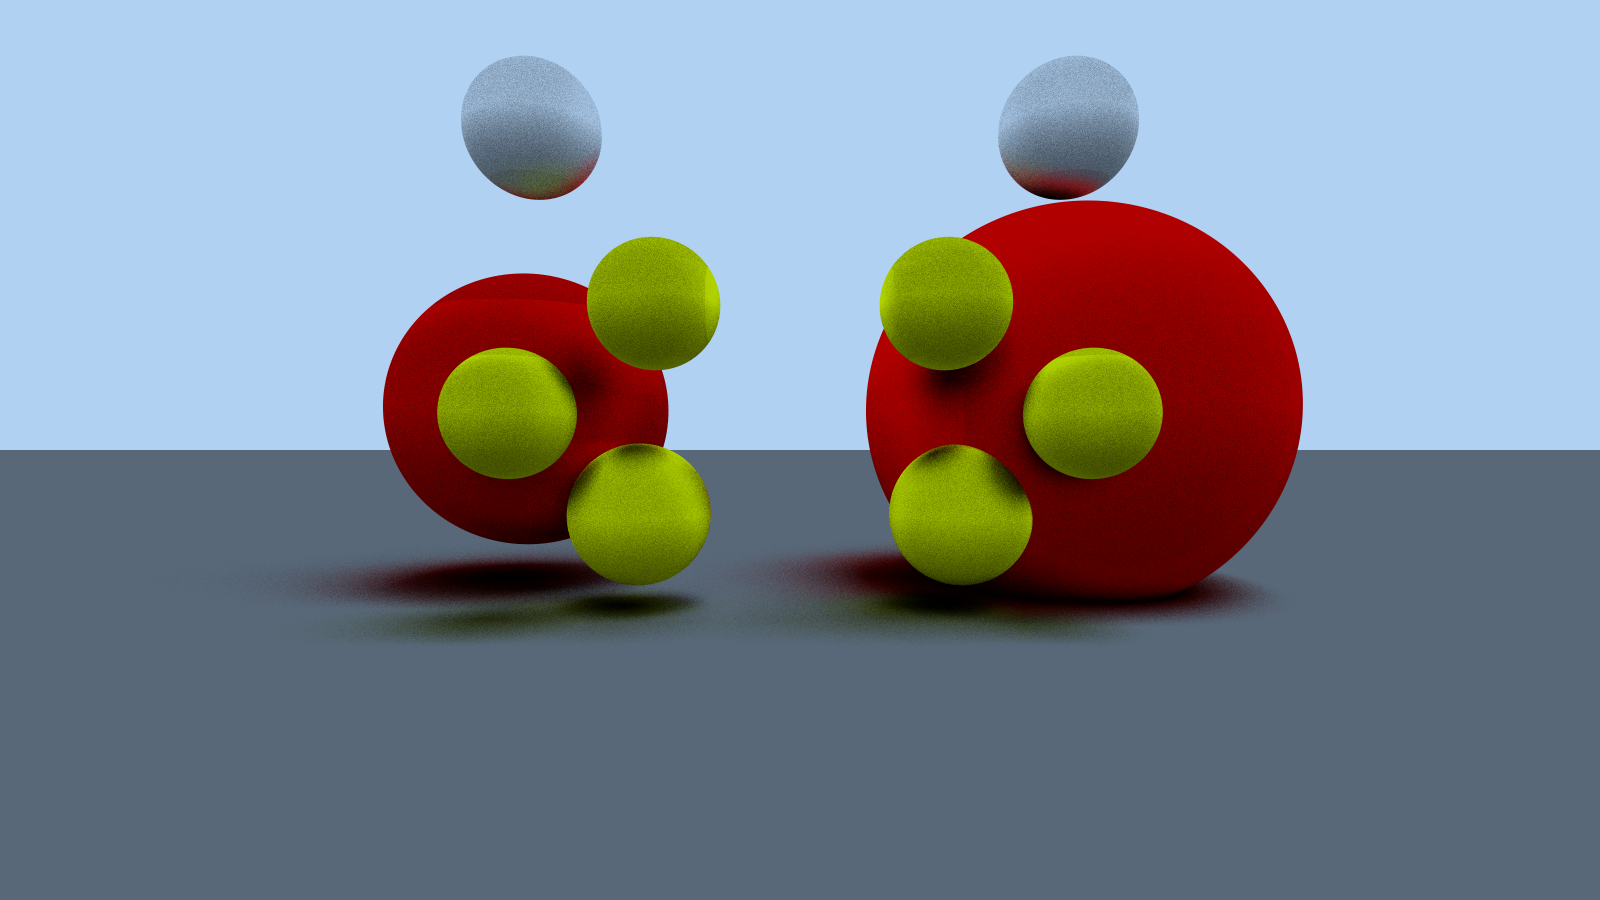
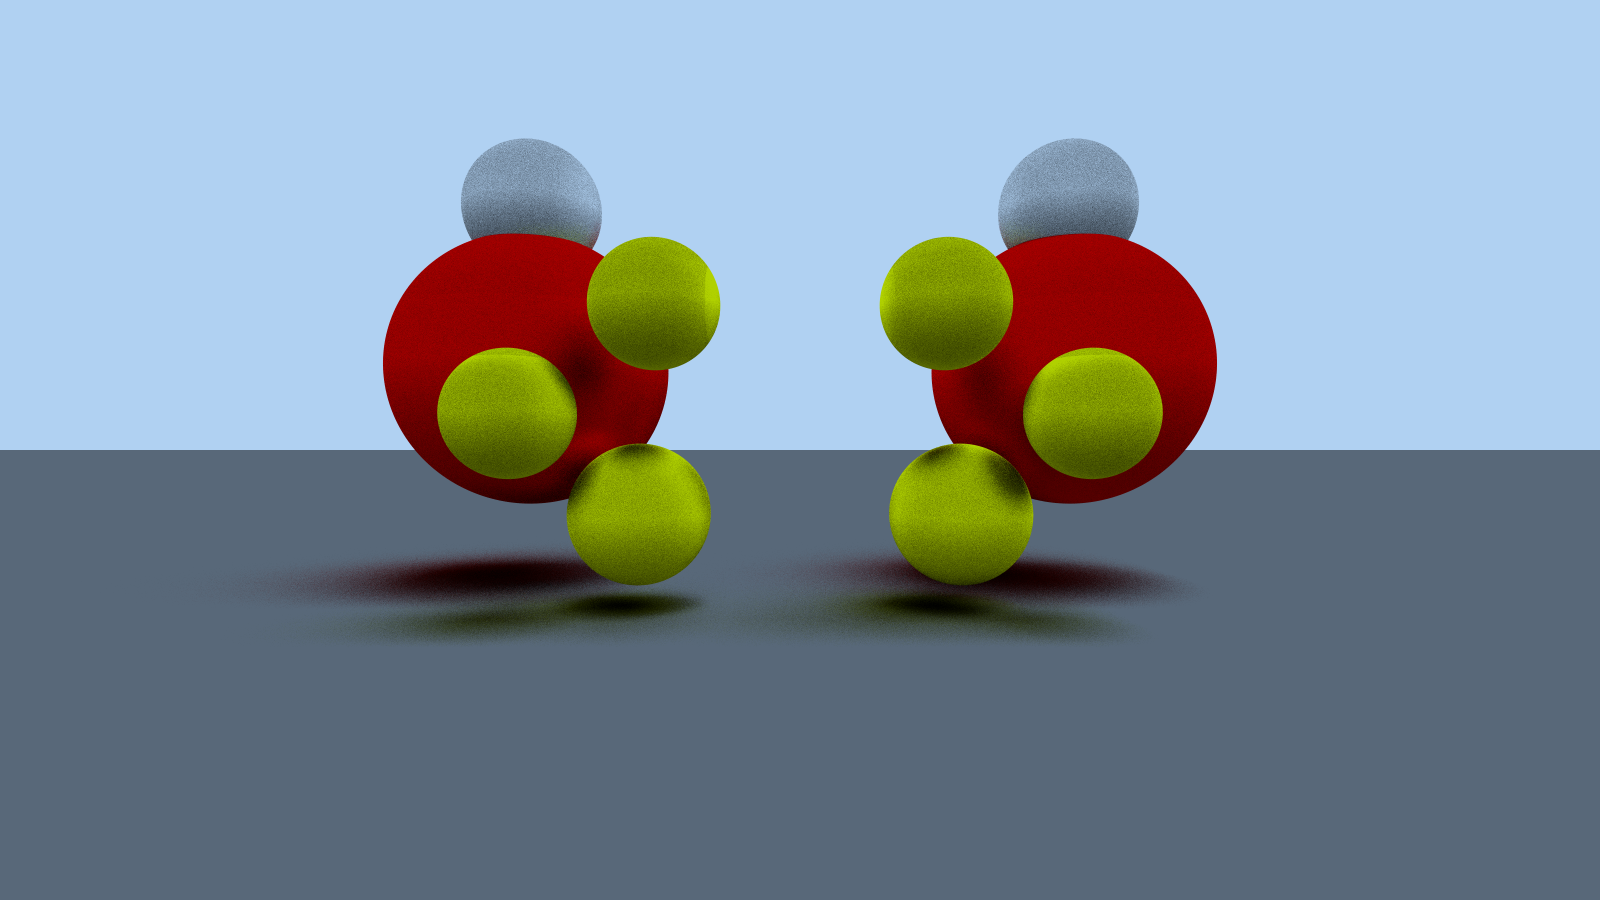
Update

diff --git a/src/saygilis877007/a04/Main.java b/src/saygilis877007/a04/Main.java
@@ -51,7 +51,7 @@ public class Main {
 
                 new Plane(vec3(0.0, -0.5, 0.0), vec3(0, 1, 0), new Lambertsches(vec3(0.5, 0.5, 0.5))),
                 new Kugel(0.5, vec3(1, 0.3, -3), new Lambertsches(vec3(1, 0, 0))), // body
-                new Kugel(0.25, vec3(1, 1.2, -3), new Lambertsches(vec3(1, 1, 1))), // body
+                new Kugel(0.25, vec3(1, 0.9, -3), new Lambertsches(vec3(1, 1, 1))), // body
 
                 new Kugel(0.22, vec3(-0.5, -0.2, -2.5), new Lambertsches(vec3(1, 1, 0))), // linkes bein
                 new Kugel(0.22, vec3(0.5, -0.2, -2.5), new Lambertsches(vec3(1, 1, 0))), // rechtes bein
@@ -64,7 +64,7 @@ public class Main {
 
 
                 new Kugel(0.5, vec3(-1, 0.3, -3), new Lambertsches(vec3(1, 0, 0))), // body
-                new Kugel(0.25, vec3(-1, 1.2, -3), new Lambertsches(vec3(1, 1, 1))), // body
+                new Kugel(0.25, vec3(-1, 0.9, -3), new Lambertsches(vec3(1, 1, 1))), // body
 
                 new Kugel(0.22, vec3(0.5, -0.2, -2.5), new Lambertsches(vec3(1, 1, 0))), // linkes bein
                 new Kugel(0.22, vec3(-0.5, -0.2, -2.5), new Lambertsches(vec3(1, 1, 0))), // rechtes bein
